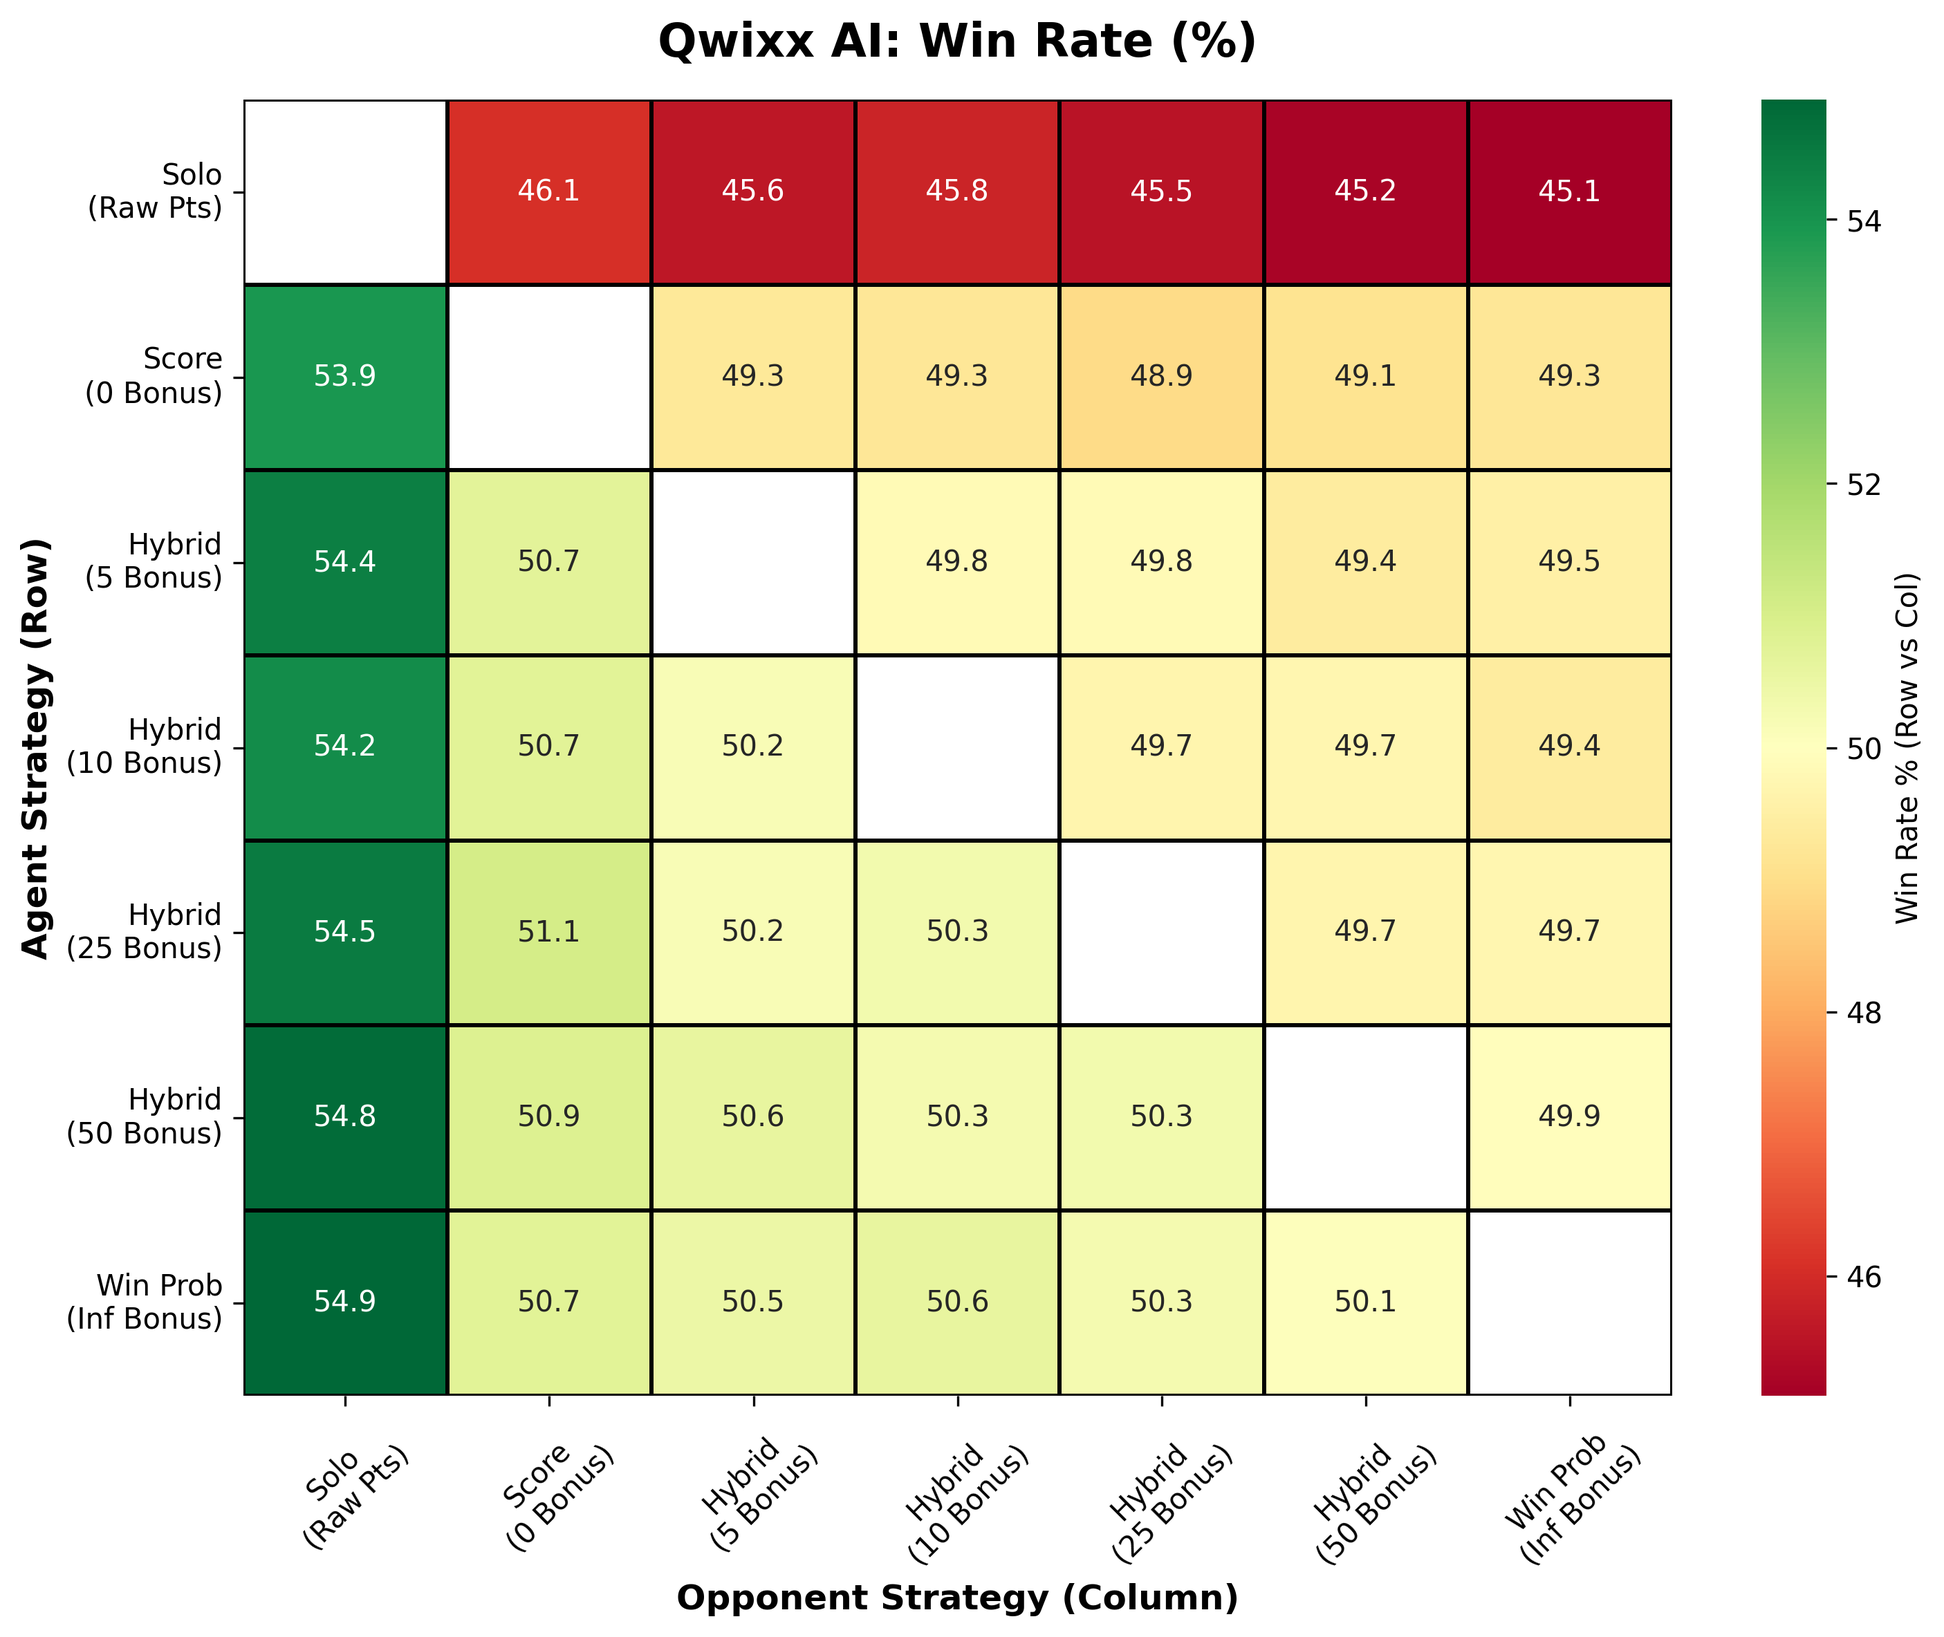
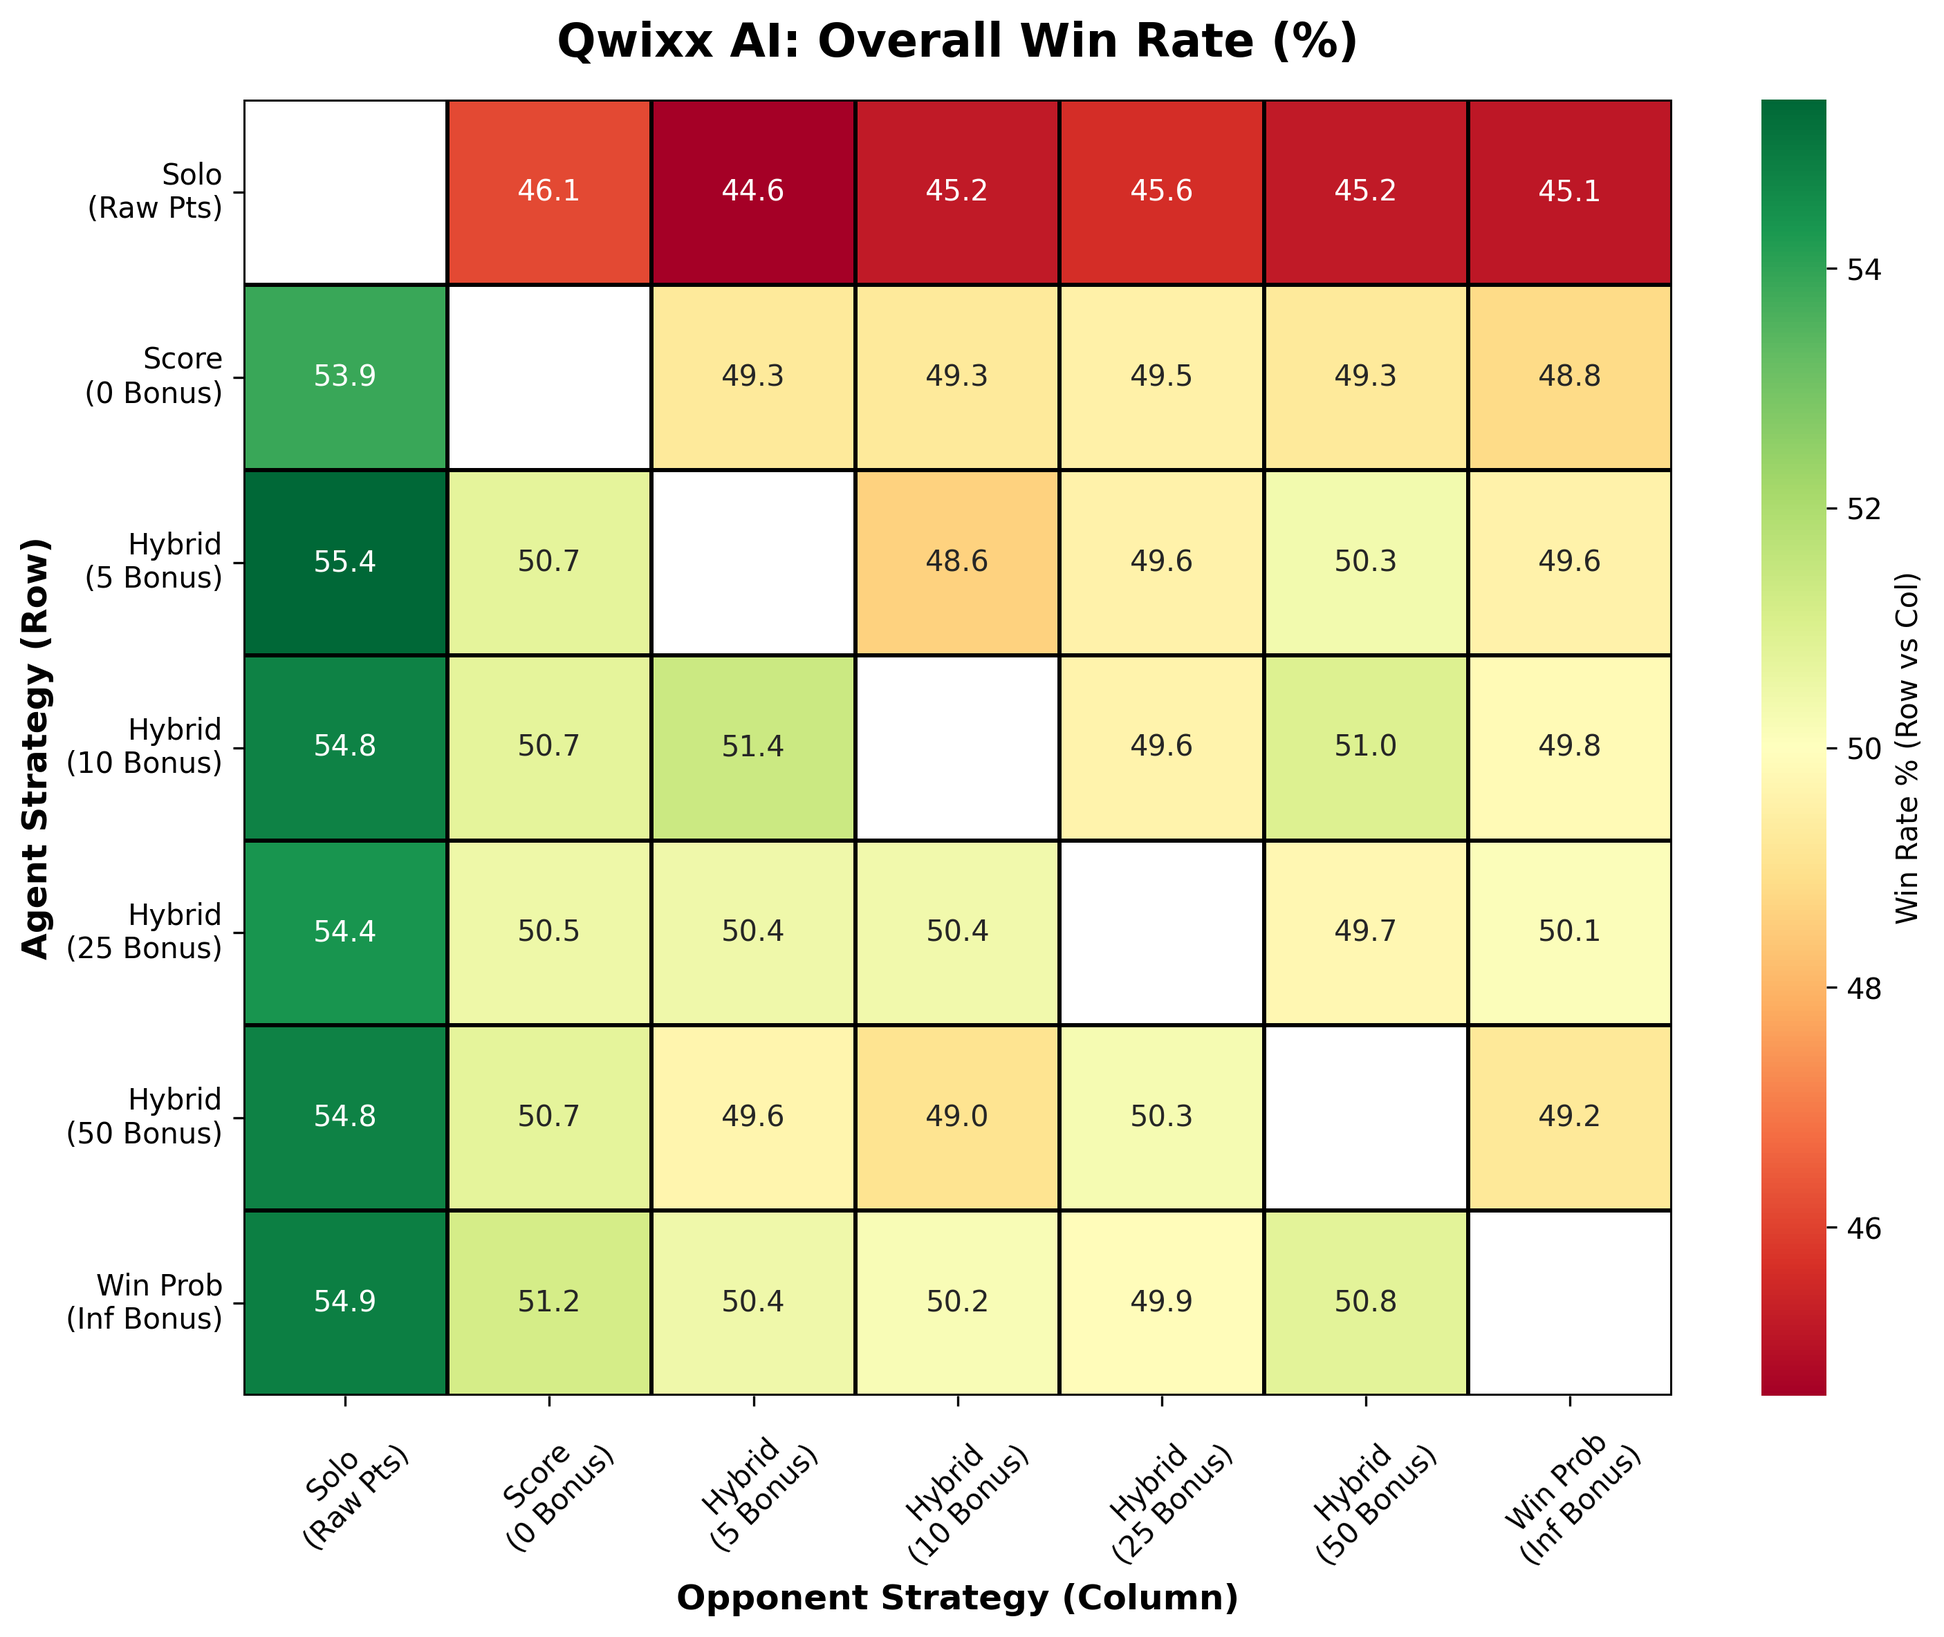
fix round robin

diff --git a/analysis/simulate_round_robin.py b/analysis/simulate_round_robin.py
@@ -26,8 +26,8 @@ def init_worker():
     V_solo = np.load('data/V_solo.npy', mmap_mode='r')
     V_score = np.load('data/V_nash.npy', mmap_mode='r')
     V_win = np.load('data/V_nash_win_prob.npy', mmap_mode='r')
-    V_h10 = np.load('data/V_nash_hybrid.npy', mmap_mode='r') 
     V_h5 = np.load('data/V_nash_hybrid_5.npy', mmap_mode='r')
+    V_h10 = np.load('data/V_nash_hybrid_10.npy', mmap_mode='r') 
     V_h25 = np.load('data/V_nash_hybrid_25.npy', mmap_mode='r')
     V_h50 = np.load('data/V_nash_hybrid_50.npy', mmap_mode='r')
     np.random.seed(os.getpid() + int(time.time()))
@@ -60,11 +60,6 @@ def get_nash_probs(A):
     return np.clip(p1, 0, 1) / np.sum(np.clip(p1, 0, 1)), np.clip(p2, 0, 1) / np.sum(np.clip(p2, 0, 1))
 
 def get_eval(state, active_idx, is_term, agent_type, evaluating_player):
-    """
-    evaluating_player: 1 or 2. 
-    If agent is zero-sum, always returns from P1's perspective.
-    If agent is SOLO, returns its OWN raw score. (For P2, we return -score, so minimizing it maximizes P2's score)
-    """
     if is_term:
         p1_r, p1_b, p1_p, p2_r, p2_b, p2_p = decode_state(state)
         s1 = calculate_score(p1_r, p1_b, p1_p)
@@ -80,7 +75,6 @@ def get_eval(state, active_idx, is_term, agent_type, evaluating_player):
             bonus = float(agent_type.split('_')[1])
             return (diff + bonus) if diff > 0 else ((diff - bonus) if diff < 0 else 0.0)
 
-    # Non-Terminal lookups
     if agent_type == 'SOLO':
         return V_solo[state, active_idx, 0] if evaluating_player == 1 else -V_solo[state, active_idx, 1]
     elif agent_type == 'SCORE': return V_score[state, active_idx, 0] - V_score[state, active_idx, 1]
@@ -93,39 +87,53 @@ def get_eval(state, active_idx, is_term, agent_type, evaluating_player):
 def simulate_matchup_chunk(args):
     num_games, agent_a_type, agent_b_type = args
     stats = {
-        'a_wins': 0, 'b_wins': 0, 'ties': 0,
-        'a_pts': 0, 'b_pts': 0,
-        'a_margins': [], 'b_margins': []
+        'a_as_p1_wins': 0, 'a_as_p2_wins': 0,
+        'b_as_p1_wins': 0, 'b_as_p2_wins': 0,
+        'ties': 0,
+        'a_as_p1_pts': 0, 'a_as_p2_pts': 0,
+        'b_as_p1_pts': 0, 'b_as_p2_pts': 0,
+        # Track purely winning margins
+        'a_as_p1_margin_sum': 0, 'a_as_p2_margin_sum': 0,
+        'b_as_p1_margin_sum': 0, 'b_as_p2_margin_sum': 0
     }
 
-    for _ in range(num_games):
+    for i in range(num_games):
         state = 0
         active_player = 1
         
-        # Coin flip to determine seating arrangement
-        a_is_p1 = random.choice([True, False])
+        # Perfect 50/50 split of starting positions
+        a_is_p1 = (i % 2 == 0)
         agent_p1 = agent_a_type if a_is_p1 else agent_b_type
         agent_p2 = agent_b_type if a_is_p1 else agent_a_type
 
         while True:
             p1_r, p1_b, p1_p, p2_r, p2_b, p2_p = decode_state(state)
             if p1_p >= 3 or p2_p >= 3 or (MiniQwixxEnv.is_row_locked(p1_r, p2_r) and MiniQwixxEnv.is_row_locked(p1_b, p2_b)):
-                s1 = calculate_score(p1_r, p1_b, p1_p)
-                s2 = calculate_score(p2_r, p2_b, p2_p)
-                a_pts = s1 if a_is_p1 else s2
-                b_pts = s2 if a_is_p1 else s1
+                s1 = calculate_score(p1_r, p1_b, p1_p) # Player 1 (Starter)
+                s2 = calculate_score(p2_r, p2_b, p2_p) # Player 2 (Second)
                 
-                stats['a_pts'] += a_pts
-                stats['b_pts'] += b_pts
-                
-                if a_pts > b_pts: 
-                    stats['a_wins'] += 1
-                    stats['a_margins'].append(a_pts - b_pts)
-                elif b_pts > a_pts: 
-                    stats['b_wins'] += 1
-                    stats['b_margins'].append(b_pts - a_pts)
-                else: 
-                    stats['ties'] += 1
+                if a_is_p1:
+                    stats['a_as_p1_pts'] += s1
+                    stats['b_as_p2_pts'] += s2
+                    if s1 > s2: 
+                        stats['a_as_p1_wins'] += 1
+                        stats['a_as_p1_margin_sum'] += (s1 - s2)
+                    elif s2 > s1: 
+                        stats['b_as_p2_wins'] += 1
+                        stats['b_as_p2_margin_sum'] += (s2 - s1)
+                    else: 
+                        stats['ties'] += 1
+                else:
+                    stats['b_as_p1_pts'] += s1
+                    stats['a_as_p2_pts'] += s2
+                    if s1 > s2: 
+                        stats['b_as_p1_wins'] += 1
+                        stats['b_as_p1_margin_sum'] += (s1 - s2)
+                    elif s2 > s1: 
+                        stats['a_as_p2_wins'] += 1
+                        stats['a_as_p2_margin_sum'] += (s2 - s1)
+                    else: 
+                        stats['ties'] += 1
                 break
 
             dice = {'W1': random.randint(1, 3), 'W2': random.randint(1, 3), 'R': random.randint(1, 3), 'B': random.randint(1, 3)}
@@ -151,7 +159,6 @@ def simulate_matchup_chunk(args):
                     best_c_dict[(w1_idx, w2_idx)] = best_c
                     final_ns, final_term = MiniQwixxEnv.step(state, active_player, dice, a_w1, a_w2, best_c)
                     
-                    # Both players evaluate the board from their own perspective
                     M_p1[w1_idx, w2_idx] = get_eval(final_ns, next_idx, final_term, agent_p1, 1)
                     M_p2[w1_idx, w2_idx] = get_eval(final_ns, next_idx, final_term, agent_p2, 2)
 
@@ -167,67 +174,87 @@ def simulate_matchup_chunk(args):
             
     return stats
 
-def plot_heatmaps(win_matrix, score_matrix, margin_matrix, agents):
-    # Fill self-play diagonals with NaN to make the heatmap cleaner
+def plot_heatmaps(win_matrix, p1_score_matrix, p2_score_matrix, p1_margin_matrix, p2_margin_matrix, agents):
     np.fill_diagonal(win_matrix, np.nan)
-    np.fill_diagonal(score_matrix, np.nan)
-    np.fill_diagonal(margin_matrix, np.nan)
+    np.fill_diagonal(p1_score_matrix, np.nan)
+    np.fill_diagonal(p2_score_matrix, np.nan)
+    np.fill_diagonal(p1_margin_matrix, np.nan)
+    np.fill_diagonal(p2_margin_matrix, np.nan)
     
     os.makedirs('plots', exist_ok=True)
-    
     display_names = ['Solo\n(Raw Pts)', 'Score\n(0 Bonus)', 'Hybrid\n(5 Bonus)', 'Hybrid\n(10 Bonus)', 
                      'Hybrid\n(25 Bonus)', 'Hybrid\n(50 Bonus)', 'Win Prob\n(Inf Bonus)']
 
-    def format_and_save(title, filename):
+    def format_and_save(title, xlabel, ylabel, filename):
         plt.title(title, fontsize=16, fontweight='bold', pad=15)
-        plt.ylabel("Agent Strategy (Row)", fontsize=12, fontweight='bold')
-        plt.xlabel("Opponent Strategy (Column)", fontsize=12, fontweight='bold')
+        plt.ylabel(ylabel, fontsize=12, fontweight='bold')
+        plt.xlabel(xlabel, fontsize=12, fontweight='bold')
         plt.xticks(rotation=45)
         plt.yticks(rotation=0)
         plt.tight_layout()
         plt.savefig(f'plots/{filename}', dpi=300, bbox_inches='tight')
-        plt.close() # Close the figure so they don't overlap
+        plt.close() 
 
-    # --- Plot 1: Win Rate % ---
+    # --- Plot 1: Overall Win Rate % ---
     plt.figure(figsize=(10, 8))
     sns.heatmap(pd.DataFrame(win_matrix, index=display_names, columns=display_names), 
                 annot=True, fmt=".1f", cmap="RdYlGn", center=50.0, 
                 cbar_kws={'label': 'Win Rate % (Row vs Col)'},
                 linewidths=1, linecolor='black')
-    format_and_save("Qwixx AI: Win Rate (%)", "heatmap_1_win_rate.png")
+    format_and_save("Qwixx AI: Overall Win Rate (%)", "Opponent Strategy (Column)", "Agent Strategy (Row)", "heatmap_1_win_rate.png")
 
-    # --- Plot 2: Average Points ---
+    # --- Plot 2 & 3: BOTH USE THE "BLUES" COLORMAP NOW ---
     plt.figure(figsize=(10, 8))
-    sns.heatmap(pd.DataFrame(score_matrix, index=display_names, columns=display_names), 
+    sns.heatmap(pd.DataFrame(p1_score_matrix, index=display_names, columns=display_names), 
                 annot=True, fmt=".2f", cmap="Blues", 
-                cbar_kws={'label': 'Average Points Scored'},
+                cbar_kws={'label': 'Average Points (As Starter)'},
                 linewidths=1, linecolor='black')
-    format_and_save("Qwixx AI: Average Points Scored", "heatmap_2_avg_points.png")
+    format_and_save("Qwixx AI: Average Points Scored (Starting First)", "Opponent (Player 2)", "Agent (Player 1)", "heatmap_2_p1_points.png")
 
-    # --- Plot 3: Margin of Victory ---
     plt.figure(figsize=(10, 8))
-    sns.heatmap(pd.DataFrame(margin_matrix, index=display_names, columns=display_names), 
-                annot=True, fmt=".2f", cmap="Purples", 
-                cbar_kws={'label': 'Average Point Margin'},
+    sns.heatmap(pd.DataFrame(p2_score_matrix, index=display_names, columns=display_names), 
+                annot=True, fmt=".2f", cmap="Blues", # Changed to Blues!
+                cbar_kws={'label': 'Average Points (As Second)'},
                 linewidths=1, linecolor='black')
-    format_and_save("Qwixx AI: Average Margin of Victory", "heatmap_3_margin.png")
+    format_and_save("Qwixx AI: Average Points Scored (Starting Second)", "Opponent (Player 1)", "Agent (Player 2)", "heatmap_3_p2_points.png")
 
-    print("\nSuccessfully generated and saved 3 separate heatmaps:")
+    # --- Plot 4 & 5: MARGINS OF VICTORY (CONDITIONAL ON WINNING) ---
+    plt.figure(figsize=(10, 8))
+    sns.heatmap(pd.DataFrame(p1_margin_matrix, index=display_names, columns=display_names), 
+                annot=True, fmt=".2f", cmap="Purples", 
+                cbar_kws={'label': 'Winning Margin (When P1 Wins)'},
+                linewidths=1, linecolor='black')
+    format_and_save("Qwixx AI: Winning Margin (Starting First)", "Opponent (Player 2)", "Agent (Player 1)", "heatmap_4_p1_margin.png")
+
+    plt.figure(figsize=(10, 8))
+    sns.heatmap(pd.DataFrame(p2_margin_matrix, index=display_names, columns=display_names), 
+                annot=True, fmt=".2f", cmap="Purples", 
+                cbar_kws={'label': 'Winning Margin (When P2 Wins)'},
+                linewidths=1, linecolor='black')
+    format_and_save("Qwixx AI: Winning Margin (Starting Second)", "Opponent (Player 1)", "Agent (Player 2)", "heatmap_5_p2_margin.png")
+
+    print("\nSuccessfully generated and saved 5 separate heatmaps:")
     print("  1. plots/heatmap_1_win_rate.png")
-    print("  2. plots/heatmap_2_avg_points.png")
-    print("  3. plots/heatmap_3_margin.png")
+    print("  2. plots/heatmap_2_p1_points.png (Blues)")
+    print("  3. plots/heatmap_3_p2_points.png (Blues)")
+    print("  4. plots/heatmap_4_p1_margin.png (Winners Only)")
+    print("  5. plots/heatmap_5_p2_margin.png (Winners Only)")
+
 
 def run_round_robin():
-    # Full Spectrum of 7 Agents!
     agents = ['SOLO', 'SCORE', 'HYBRID_5', 'HYBRID_10', 'HYBRID_25', 'HYBRID_50', 'WIN']
     matchups = list(itertools.combinations(agents, 2))
     
-    games_per_matchup = 100000 
+    games_per_matchup = 10000 
     cores = mp.cpu_count()
     
     win_matrix = np.full((len(agents), len(agents)), 50.0)
-    score_matrix = np.full((len(agents), len(agents)), 0.0)
-    margin_matrix = np.full((len(agents), len(agents)), 0.0)
+    p1_score_matrix = np.full((len(agents), len(agents)), 0.0)
+    p2_score_matrix = np.full((len(agents), len(agents)), 0.0)
+    
+    # Init with NaN so if an agent never wins a single game, it displays as blank instead of 0
+    p1_margin_matrix = np.full((len(agents), len(agents)), np.nan)
+    p2_margin_matrix = np.full((len(agents), len(agents)), np.nan)
 
     print(f"\n" + "="*75)
     print(f" ROUND ROBIN TOURNAMENT: {len(agents)} AGENTS | {len(matchups)} UNIQUE MATCHUPS")
@@ -245,33 +272,54 @@ def run_round_robin():
         with mp.Pool(processes=cores, initializer=init_worker) as pool:
             results = pool.map(simulate_matchup_chunk, args)
 
-        a_w, b_w, t = 0, 0, 0
-        a_pts, b_pts = 0, 0
-        a_margins, b_margins = [], []
+        a_as_p1_w, a_as_p2_w = 0, 0
+        b_as_p1_w, b_as_p2_w = 0, 0
+        t = 0
+        
+        a_p1_pts, a_p2_pts = 0, 0
+        b_p1_pts, b_p2_pts = 0, 0
+        
+        a_p1_m_sum, a_p2_m_sum = 0, 0
+        b_p1_m_sum, b_p2_m_sum = 0, 0
 
         for r in results:
-            a_w += r['a_wins']; b_w += r['b_wins']; t += r['ties']
-            a_pts += r['a_pts']; b_pts += r['b_pts']
-            a_margins.extend(r['a_margins']); b_margins.extend(r['b_margins'])
+            a_as_p1_w += r['a_as_p1_wins']; a_as_p2_w += r['a_as_p2_wins']
+            b_as_p1_w += r['b_as_p1_wins']; b_as_p2_w += r['b_as_p2_wins']
+            t += r['ties']
+            
+            a_p1_pts += r['a_as_p1_pts']; a_p2_pts += r['a_as_p2_pts']
+            b_p1_pts += r['b_as_p1_pts']; b_p2_pts += r['b_as_p2_pts']
+            
+            a_p1_m_sum += r['a_as_p1_margin_sum']; a_p2_m_sum += r['a_as_p2_margin_sum']
+            b_p1_m_sum += r['b_as_p1_margin_sum']; b_p2_m_sum += r['b_as_p2_margin_sum']
 
-        # Win Rates (Ties = 0.5)
-        a_win_rate = ((a_w + (0.5 * t)) / games_per_matchup) * 100
-        b_win_rate = ((b_w + (0.5 * t)) / games_per_matchup) * 100
+        # Overall Win Rates
+        a_total_wins = a_as_p1_w + a_as_p2_w
+        b_total_wins = b_as_p1_w + b_as_p2_w
+        
+        a_win_rate = ((a_total_wins + (0.5 * t)) / games_per_matchup) * 100
+        b_win_rate = ((b_total_wins + (0.5 * t)) / games_per_matchup) * 100
         win_matrix[a_idx][b_idx] = a_win_rate
         win_matrix[b_idx][a_idx] = b_win_rate
         
-        # Average Points
-        score_matrix[a_idx][b_idx] = a_pts / games_per_matchup
-        score_matrix[b_idx][a_idx] = b_pts / games_per_matchup
+        # Average Points 
+        half_games = games_per_matchup / 2
+        p1_score_matrix[a_idx][b_idx] = a_p1_pts / half_games
+        p1_score_matrix[b_idx][a_idx] = b_p1_pts / half_games
+        p2_score_matrix[a_idx][b_idx] = a_p2_pts / half_games
+        p2_score_matrix[b_idx][a_idx] = b_p2_pts / half_games
 
-        # Margin of Victory
-        margin_matrix[a_idx][b_idx] = sum(a_margins) / max(1, a_w)
-        margin_matrix[b_idx][a_idx] = sum(b_margins) / max(1, b_w)
+        # Conditional Winning Margins (Only when they actually won!)
+        if a_as_p1_w > 0: p1_margin_matrix[a_idx][b_idx] = a_p1_m_sum / a_as_p1_w
+        if b_as_p1_w > 0: p1_margin_matrix[b_idx][a_idx] = b_p1_m_sum / b_as_p1_w
+        
+        if a_as_p2_w > 0: p2_margin_matrix[a_idx][b_idx] = a_p2_m_sum / a_as_p2_w
+        if b_as_p2_w > 0: p2_margin_matrix[b_idx][a_idx] = b_p2_m_sum / b_as_p2_w
         
         print(f"  -> {tag_a}: {a_win_rate:.1f}% | {tag_b}: {b_win_rate:.1f}% | Ties: {(t/games_per_matchup)*100:.1f}%")
 
     print("\nGenerating Master Heatmaps...")
-    plot_heatmaps(win_matrix, score_matrix, margin_matrix, agents)
+    plot_heatmaps(win_matrix, p1_score_matrix, p2_score_matrix, p1_margin_matrix, p2_margin_matrix, agents)
 
 if __name__ == '__main__':
     run_round_robin()
